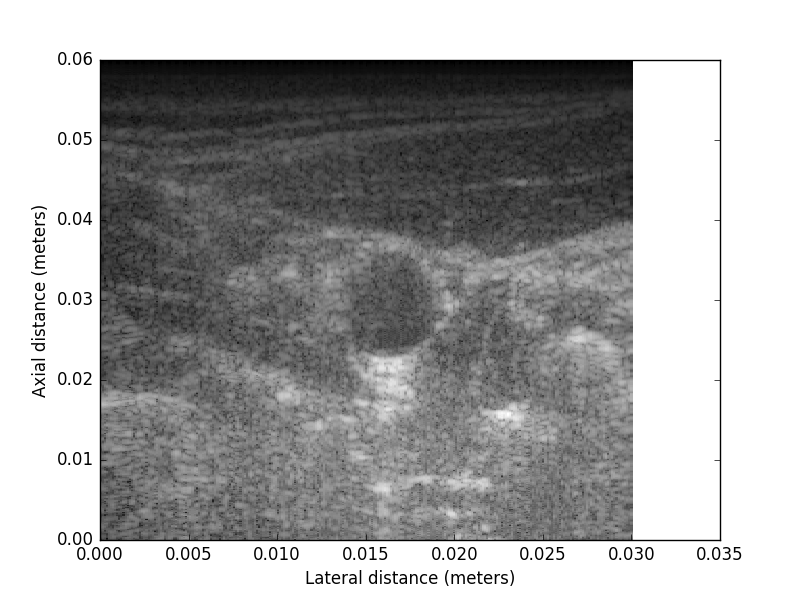
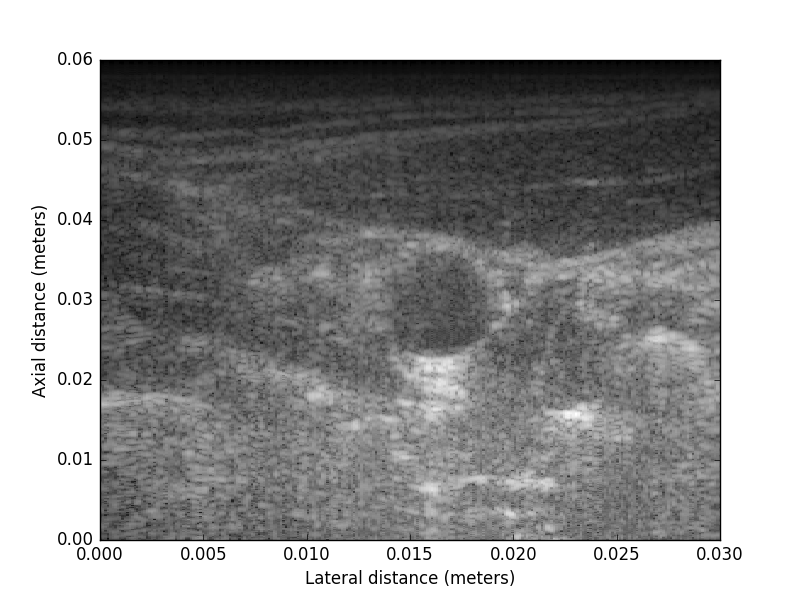
added function that accounts for harmonics, and its test in test_SignalManipulator, Close #30

diff --git a/SignalManipulator.py b/SignalManipulator.py
@@ -25,7 +25,8 @@ def prepare_signals_for_rendering(multiple_beams):
 
     multiple_envelopes = log_compress(multiple_envelopes)
     multiple_envelopes = account_for_distance(multiple_envelopes)
-    # apply compensation for harmonic interactions
+    multiple_envelopes = account_for_harmonics(multiple_envelopes)
+
     return multiple_envelopes
 
 
@@ -172,3 +173,20 @@ def account_for_distance(compressed_envelopes):
         amplified_signal.append(y * beam)
 
     return amplified_signal
+
+def account_for_harmonics(amplified_signal):
+    """ Multiplies data by gaussian function to account for harmonics
+    :param amplified_signal: list of list of data points that have time gain compensation
+    :type amplified_signal: int array
+    :return: list of list of data points, now accounted for harmonics
+    """
+    import numpy as np
+    signal = []
+    mu = 3
+    sig = 6
+    logging.debug('applying bell curve to account for harmonics')
+    for beam in amplified_signal:
+        x = np.linspace(-0.015, 0.015, len(beam))
+        gaussian = np.exp(-np.power(x - mu, 2) / (2 * np.power(sig, 2)))
+        signal.append(beam * gaussian)
+    return signal

diff --git a/TestFiles/test_SignalManipulator.py b/TestFiles/test_SignalManipulator.py
@@ -71,3 +71,17 @@ def test_account_for_distance():
 
     assert np.all(account_for_distance(test_data)) == np.all(new_data)
 
+def test_account_for_harmonics():
+    """test that multiplies signal by a bell curve to account for harmonics
+    """
+    from SignalManipulator import account_for_harmonics
+    import numpy as np
+
+    test_data = [[1,1,1], [1,1,1]]
+    x = np.linspace(-0.015, 0.015, 3)
+    mu = 3
+    sig = 6
+    new_data = [[np.exp(-np.power(x - mu, 2) / (2 * np.power(sig, 2)))],
+                [np.exp(-np.power(x - mu, 2) / (2 * np.power(sig, 2)))]]
+
+    assert np.all(account_for_harmonics(test_data)) == np.all(new_data)

diff --git a/ImageOutputter.py b/ImageOutputter.py
@@ -22,6 +22,7 @@ def make_image(data_in_beams, fs, c, axial_samples, num_beams, beam_spacing, ima
     """
     import numpy as np
     import matplotlib.pyplot as plt
+    from skimage import exposure
 
     logging.debug('putting data into 2d array')
     matrix = np.zeros((axial_samples, num_beams))
@@ -41,6 +42,7 @@ def make_image(data_in_beams, fs, c, axial_samples, num_beams, beam_spacing, ima
     plt.pcolormesh(xx, yy, Z, cmap="gray")
     plt.ylabel("Axial distance (meters)")
     plt.xlabel("Lateral distance (meters)")
+    plt.axis([0, 0.03, 0, 0.06])
 
     if do_save:
         logging.debug('saving image')
